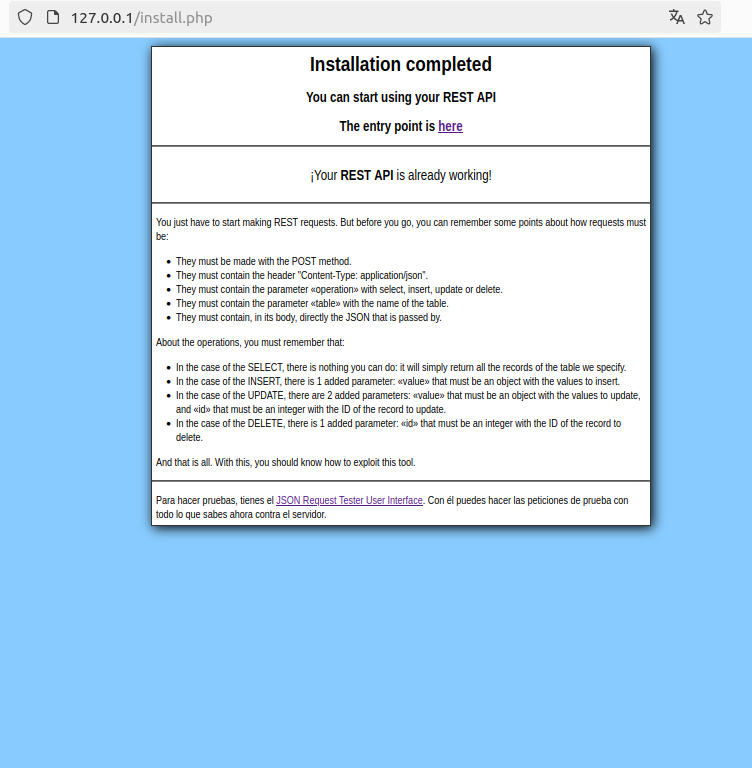
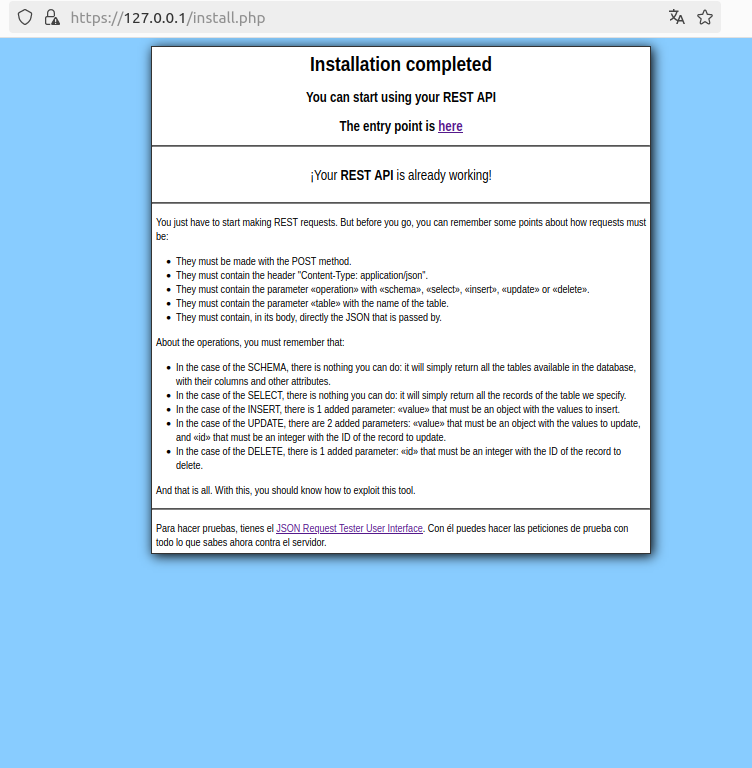
actualizada imagen de instalacion completada

Changed region(s): [[0.1835, 0.4688, 0.887, 0.75], [0.0612, 0.0, 0.367, 0.0312], [0.5199, 0.375, 0.7646, 0.4062]]

diff --git a/install.php b/install.php
@@ -2,35 +2,59 @@
 
 include("./settings.php");
 
-$database = null;
-if(DATABASE_ADAPTER == "sqlite") {
-    $database = new SQLite3(SQLITE_FILE);
-} else {
-    $database = mysqli_connect(MYSQL_HOST, MYSQL_USER, MYSQL_PASSWORD, MYSQL_DATABASE);
-}
-$code = $_POST["base_de_datos"];
-$password = $_POST["autentificador"];
-$structure = $_POST["estructura"];
-$migration = $_POST["migracion"];
-if(empty($code)) {
-    include("./installer.php");
-    die();
-}
-if(empty($password)) {
-    include("./installer.php");
-    die();
-}
-if(DATABASE_ADAPTER == "sqlite") {
-    $database->query($code . "\n" . $migration);
-} else if(DATABASE_ADAPTER == "mysql") {
-    mysqli_multi_query($database, $code . "\n" . $migration);
-}
-file_put_contents("installed.txt",$password);
-file_put_contents("schema.json", $structure);
+$is_installed = false;
 
+if (file_exists("installed.txt")) {
+    $is_installed = true;
+}
+
+if (!$is_installed) {
+    if (!array_key_exists("base_de_datos", $_POST)) {
+        include("./installer.php");
+        die();
+    }
+    if (!array_key_exists("autentificador", $_POST)) {
+        include("./installer.php");
+        die();
+    }
+    if (!array_key_exists("estructura", $_POST)) {
+        include("./installer.php");
+        die();
+    }
+    if (!array_key_exists("migracion", $_POST)) {
+        include("./installer.php");
+        die();
+    }
+    $database = null;
+    if (DATABASE_ADAPTER == "sqlite") {
+        $database = new SQLite3(SQLITE_FILE);
+    } else {
+        $database = mysqli_connect(MYSQL_HOST, MYSQL_USER, MYSQL_PASSWORD, MYSQL_DATABASE);
+    }
+    $code = $_POST["base_de_datos"];
+    $password = $_POST["autentificador"];
+    $structure = $_POST["estructura"];
+    $migration = $_POST["migracion"];
+    if (empty($code)) {
+        include("./installer.php");
+        die();
+    }
+    if (empty($password)) {
+        include("./installer.php");
+        die();
+    }
+    if (DATABASE_ADAPTER == "sqlite") {
+        $database->query($code . "\n" . $migration);
+    } else if (DATABASE_ADAPTER == "mysql") {
+        mysqli_multi_query($database, $code . "\n" . $migration);
+    }
+    file_put_contents("installed.txt", $password);
+    file_put_contents("schema.json", $structure);
+}
 ?>
 <!DOCTYPE html>
 <html lang="en">
+
 <head>
     <meta charset="UTF-8">
     <meta name="viewport" content="width=device-width, initial-scale=1.0">
@@ -39,14 +63,16 @@ file_put_contents("schema.json", $structure);
         * {
             box-sizing: border-box;
         }
+
         html {
             text-align: center;
             background-color: #8CF;
             font-family: Arial Narrow;
         }
+
         .page {
             display: inline-block;
-            width:100%;
+            width: 100%;
             max-width: 500px;
             border: 1px solid #333;
             box-shadow: 2px 2px 12px black;
@@ -54,10 +80,15 @@ file_put_contents("schema.json", $structure);
             background-color: white;
             text-align: left;
         }
-        .page h1, .page h2, .page h3, .page h4 {
+
+        .page h1,
+        .page h2,
+        .page h3,
+        .page h4 {
             margin: 0px;
             padding: 0px;
         }
+
         .textarea_de_codigo {
             width: 100%;
             resize: vertical;
@@ -66,9 +97,10 @@ file_put_contents("schema.json", $structure);
             background-color: #112;
             color: white;
             font-family: monospace;
-            font-size:10px;
+            font-size: 10px;
             box-shadow: 2px 2px 4px black;
         }
+
         .boton {
             border-radius: 0pt;
             border: 1px solid #333;
@@ -81,12 +113,14 @@ file_put_contents("schema.json", $structure);
             padding: 8px;
             transition: background-color .2s linear, color .2s linear;
         }
+
         .boton:hover {
             background-color: #AAF;
             color: black;
         }
     </style>
 </head>
+
 <body>
     <div class="page">
         <form action="install.php" method="POST">
@@ -100,32 +134,42 @@ file_put_contents("schema.json", $structure);
             <hr />
             <div style="padding:4px; font-size: 11px;">
                 <div style="text-align: justify;">
-                You just have to start making REST requests.
-                But before you go, you can remember some points about how requests must be:
+                    You just have to start making REST requests.
+                    But before you go, you can remember some points about how requests must be:
                 </div>
                 <ul style="padding-left: 20px;">
                     <li>They must be made with the POST method.</li>
                     <li>They must contain the header "Content-Type: application/json".</li>
-                    <li>They must contain the parameter «operation» with select, insert, update or delete.</li>
+                    <li>They must contain the parameter «operation» with «schema», «select», «insert», «update» or
+                        «delete».</li>
                     <li>They must contain the parameter «table» with the name of the table.</li>
                     <li>They must contain, in its body, directly the JSON that is passed by.</li>
                 </ul>
                 <div>
                     <div>About the operations, you must remember that:</div>
                     <ul style="padding-left: 20px;">
-                        <li>In the case of the SELECT, there is nothing you can do: it will simply return all the records of the table we specify.</li>
-                        <li>In the case of the INSERT, there is 1 added parameter: «value» that must be an object with the values to insert.</li>
-                        <li>In the case of the UPDATE, there are 2 added parameters: «value» that must be an object with the values to update, and «id» that must be an integer with the ID of the record to update.</li>
-                        <li>In the case of the DELETE, there is 1 added parameter: «id» that must be an integer with the ID of the record to delete.</li>
+                        <li>In the case of the SCHEMA, there is nothing you can do: it will simply return all the tables
+                            available in the database, with their columns and other attributes.</li>
+                        <li>In the case of the SELECT, there is nothing you can do: it will simply return all the
+                            records of the table we specify.</li>
+                        <li>In the case of the INSERT, there is 1 added parameter: «value» that must be an object with
+                            the values to insert.</li>
+                        <li>In the case of the UPDATE, there are 2 added parameters: «value» that must be an object with
+                            the values to update, and «id» that must be an integer with the ID of the record to update.
+                        </li>
+                        <li>In the case of the DELETE, there is 1 added parameter: «id» that must be an integer with the
+                            ID of the record to delete.</li>
                     </ul>
                 </div>
                 <div>And that is all. With this, you should know how to exploit this tool.</div>
             </div>
-            <hr/>
+            <hr />
             <div style="font-size: 11px;padding:4px;">
-                <div>Para hacer pruebas, tienes el <a href="./jrtui">JSON Request Tester User Interface</a>. Con él puedes hacer las peticiones de prueba con todo lo que sabes ahora contra el servidor.</div>
+                <div>Para hacer pruebas, tienes el <a href="./jrtui">JSON Request Tester User Interface</a>. Con él
+                    puedes hacer las peticiones de prueba con todo lo que sabes ahora contra el servidor.</div>
             </div>
         </form>
     </div>
 </body>
+
 </html>
